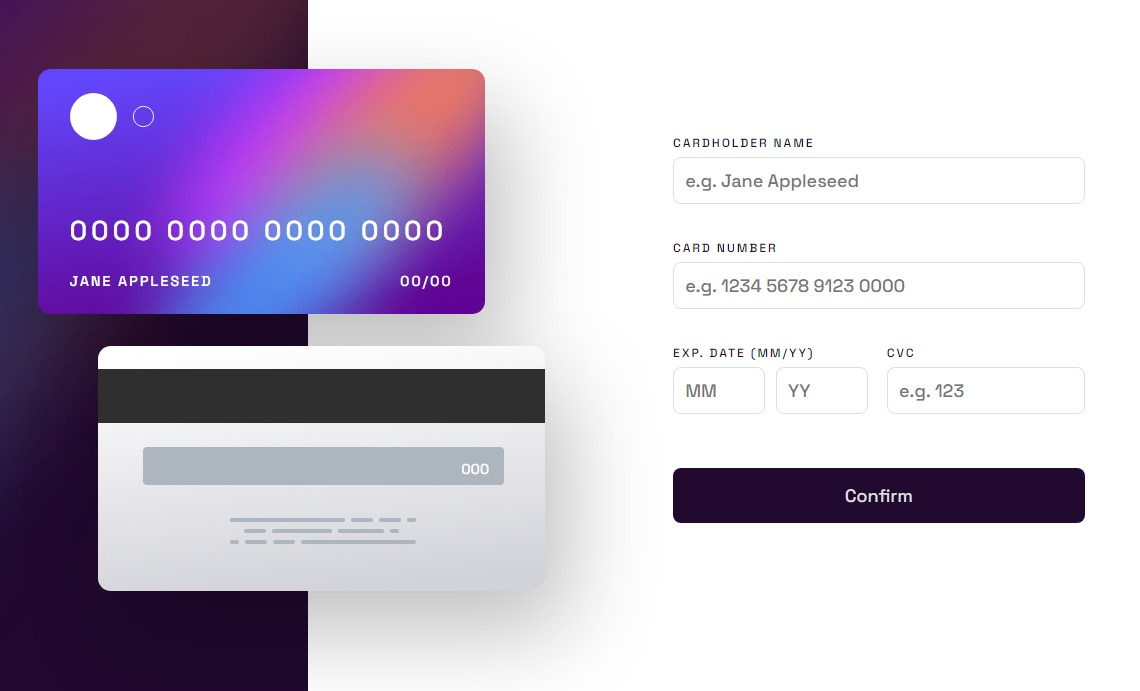
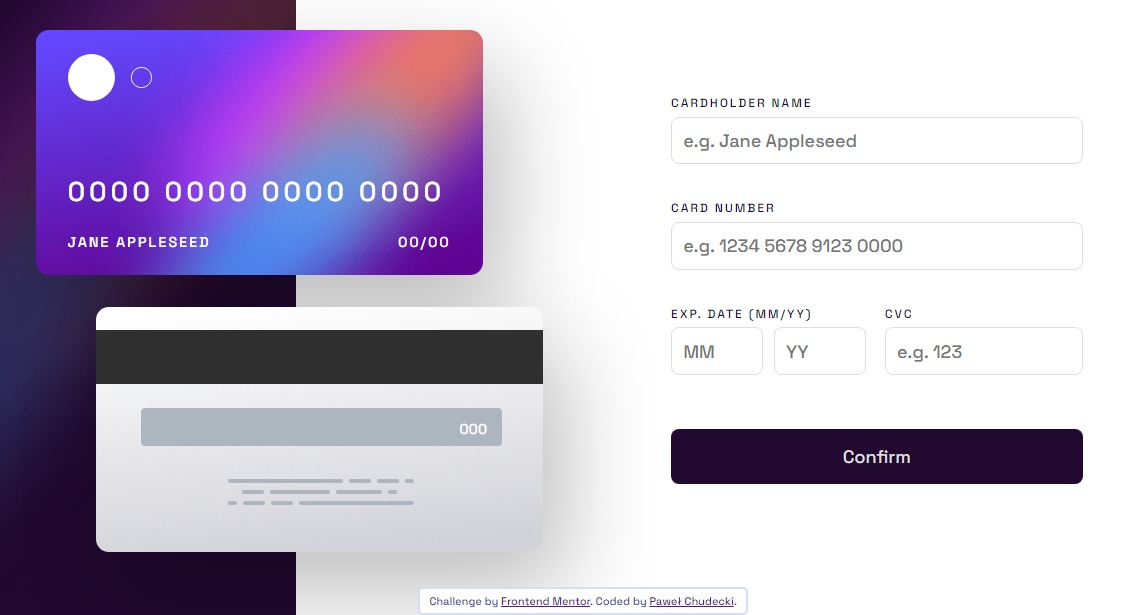
cvc validation update

diff --git a/index.html b/index.html
@@ -85,7 +85,7 @@
                 maxlength="3"
               />
               <br />
-              <div class="cvcErr error">Can't be blank</div>
+              <div class="cvcErr error">Wrong format</div>
             </div>
           </div>
           <button class="confirm">Confirm</button>
@@ -103,7 +103,7 @@
         Challenge by
         <a href="https://www.frontendmentor.io?ref=challenge" target="_blank"
           >Frontend Mentor</a
-        >. Coded by <a href="#">SoulRvr</a>.
+        >. Coded by <a href="#">Paweł Chudecki</a>.
       </div>
     </footer>
     <script src="script.js"></script>

diff --git a/script.js b/script.js
@@ -62,7 +62,7 @@ confirmBtn.addEventListener("click", () => {
     cardExpM.style = "border-color: var(--Light-grayish-violet)";
     cardExpY.style = "border-color: var(--Light-grayish-violet)";
   }
-  if (!/^\d{1,}$/g.test(cardCvc.value)) {
+  if (!/^\d{3}$/g.test(cardCvc.value)) {
     cvcErr.style = "visibility: visible";
     cardCvc.style = "border-color: var(--input-errors)";
   } else {
